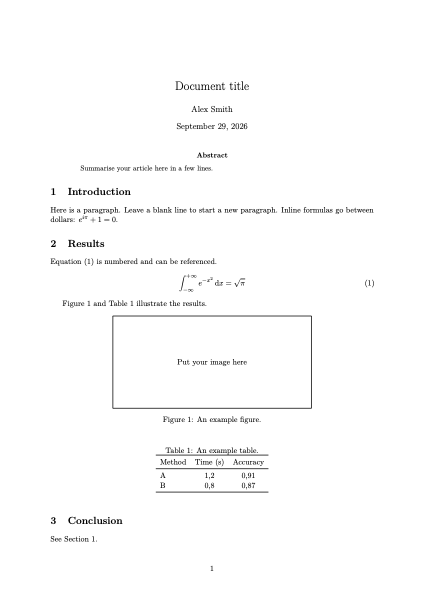
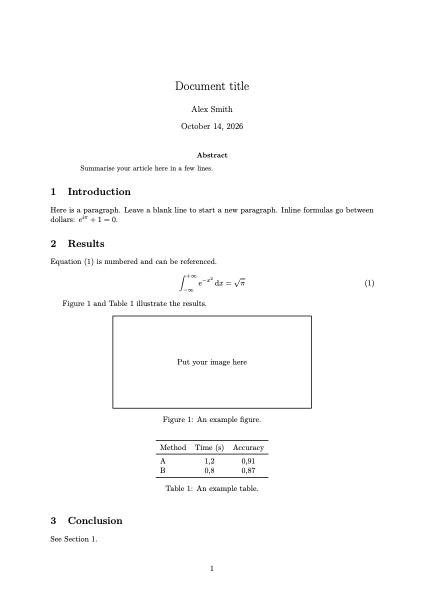
A mistake seen by several checks with a same fix is shown once; the @{ and @[ shortcuts work as they are typed (the bracket the editor closes no longer empties the list); tables have their caption under them

Changed region(s): [[0.3679, 0.72, 0.6439, 0.84], [0.4906, 0.18, 0.5825, 0.24], [0.4292, 0.21, 0.4599, 0.24]]

diff --git a/ui/lib/problems.test.ts b/ui/lib/problems.test.ts
@@ -1,0 +1,46 @@
+// One mistake seen by several checks is shown once.
+import assert from "node:assert/strict";
+import { test } from "node:test";
+import { oneEach } from "./problems.ts";
+import type { Diagnostic, Fix } from "./types";
+
+const at = (line: number, from: number, to: number) => ({ start: { line, character: from }, end: { line, character: to } });
+
+function problem(severity: Diagnostic["severity"], source: Diagnostic["source"], message: string, range: Diagnostic["range"], fixes: Fix[]): Diagnostic {
+  return { severity, source, code: null, message, file: "/p/main.tex", range, line: range ? range.start.line + 1 : null, endLine: null, contextBefore: null, contextAfter: null, raw: null, hint: null, fixes };
+}
+
+const replace = (word: string): Fix => ({ kind: "edits", title: `Remplacer par ${word}`, edits: [{ file: "/p/main.tex", range: at(2, 11, 15), text: word }] });
+
+test("a key mistyped, said by LaTeX, by Biber and by the live checks: once", () => {
+  const list = [
+    problem("warning", "latex", "Citation `knut' undefined", at(2, 11, 15), [replace("knuth")]),
+    problem("warning", "biber", "I didn't find a database entry for knut", at(2, 11, 15), [replace("knuth")]),
+    problem("warning", "lint", "Citation inconnue", at(2, 11, 15), [replace("knuth")]),
+  ];
+  assert.deepEqual(oneEach(list).map((d) => d.source), ["latex"]);
+});
+
+test("the most serious one stays, wherever it comes in the list", () => {
+  const close: Fix = { kind: "edits", title: "Fermer l'accolade", edits: [{ file: "/p/main.tex", range: at(2, 18, 18), text: "}" }] };
+  const list = [problem("warning", "syntax", "Accolade jamais fermée", at(2, 16, 17), [close]), problem("error", "latex", "File ended while scanning use of \\textbf", at(2, 9, 17), [close])];
+  assert.deepEqual(oneEach(list).map((d) => d.source), ["latex"]);
+});
+
+test("one fix for two places, or two fixes for one place: all stay", () => {
+  const siunitx: Fix = { kind: "addPackage", package: "siunitx" };
+  const two = [problem("error", "latex", "Undefined control sequence", at(2, 16, 19), [siunitx]), problem("error", "latex", "Undefined control sequence", at(2, 23, 29), [siunitx])];
+  assert.equal(oneEach(two).length, 2);
+  const different = [problem("error", "latex", "Undefined control sequence", at(2, 16, 19), [siunitx]), problem("info", "lint", "Style", at(2, 16, 19), [replace("x")])];
+  assert.equal(oneEach(different).length, 2);
+  // Without a fix, nothing tells they are the same mistake.
+  const bare = [problem("error", "latex", "A", at(2, 1, 4), []), problem("error", "latex", "A", at(2, 1, 4), [])];
+  assert.equal(oneEach(bare).length, 2);
+});
+
+test("a problem known by its line only meets the problems of that line", () => {
+  const fix: Fix = { kind: "addPackage", package: "amsmath" };
+  const line = { ...problem("error", "latex", "Environment align undefined", null, [fix]), line: 3 };
+  const list = [line, problem("info", "lint", "align nécessite amsmath", at(2, 0, 13), [fix]), problem("info", "lint", "ailleurs", at(7, 0, 4), [fix])];
+  assert.deepEqual(oneEach(list).map((d) => d.message), ["Environment align undefined", "ailleurs"]);
+});

diff --git a/ui/dev/selftest.ts b/ui/dev/selftest.ts
@@ -2090,19 +2090,37 @@ async function filesScenes(log: (msg: string) => void, dir: string): Promise<boo
     await editor.open(project.info!.main!);
     await pause(500);
 
-    // @[ typed: the editor closes the bracket; the shortcut replaces both.
+    // @[ and @{ typed as a person types them: the editor closes the
+    // bracket, the list opens by itself, the shortcut replaces both.
     const view = editor.view!;
-    view.dispatch({ changes: { from: 0, to: view.state.doc.length, insert: "$@[]$" }, selection: { anchor: 3 } });
     view.focus();
-    startCompletion(view);
-    await until(() => currentCompletions(view.state).some((c) => c.label === "@["), 5_000, "@[ completion");
-    const option = currentCompletions(view.state).findIndex((c) => c.label === "@[");
-    view.dispatch({ effects: setSelectedCompletion(option) });
-    // CodeMirror ignores an acceptance right after the list opens.
-    await pause(200);
-    acceptCompletion(view);
-    await pause(200);
-    check("@[ not doubled", view.state.doc.toString() === "$\\left[  \\right]$", view.state.doc.toString());
+    const typeKeys = (text: string) => {
+      for (const ch of text) {
+        const { from, to } = view.state.selection.main;
+        const handled = view.state.facet(EditorView.inputHandler).some((h) => h(view, from, to, ch, () => view.state.update({ changes: { from, to, insert: ch } })));
+        if (!handled) view.dispatch({ changes: { from, to, insert: ch }, selection: { anchor: from + ch.length }, userEvent: "input.type" });
+      }
+    };
+    for (const [key, written] of [
+      ["[", "$x = \\left[  \\right]$"],
+      ["{", "$x = \\left\\{  \\right\\}$"],
+    ] as const) {
+      view.dispatch({ changes: { from: 0, to: view.state.doc.length, insert: "$x = $" }, selection: { anchor: 5 } });
+      typeKeys("@");
+      await pause(150);
+      typeKeys(key);
+      const opened = await until(() => currentCompletions(view.state).some((c) => c.label === `@${key}`), 5_000, `@${key} completion`).then(
+        () => true,
+        () => false,
+      );
+      const option = currentCompletions(view.state).findIndex((c) => c.label === `@${key}`);
+      if (option >= 0) view.dispatch({ effects: setSelectedCompletion(option) });
+      // CodeMirror ignores an acceptance right after the list opens.
+      await pause(200);
+      acceptCompletion(view);
+      await pause(200);
+      check(`@${key} typed gives its brackets`, opened && view.state.doc.toString() === written, `${opened} ${view.state.doc.toString()}`);
+    }
     view.dispatch({ changes: { from: 0, to: view.state.doc.length, insert: "" } });
     const shown = (sel: string) => [...document.querySelectorAll<HTMLElement>(sel)].filter((e) => e.offsetWidth > 0).map((e) => e.textContent?.trim());
     const texts = shown(".format-bar .text-btn span");

diff --git a/ui/lib/problems.ts b/ui/lib/problems.ts
@@ -1,0 +1,46 @@
+// One mistake, one problem: a mistake is often seen by several checks
+// (the compiler, Biber, the live checks of the editor), each with the same
+// fix. A citation key mistyped is said by LaTeX and by Biber, a brace never
+// closed by the compiler and by the live syntax check. Shown once.
+
+import type { Diagnostic, Position, Range } from "./types";
+
+const RANK = { error: 0, warning: 1, info: 2, hint: 3 } as const;
+
+const before = (a: Position, b: Position) => a.line < b.line || (a.line === b.line && a.character < b.character);
+
+/** Where a problem is: its range, or its whole line(s) when only a line is known. */
+function placeOf(d: Diagnostic): Range | null {
+  if (d.range) return d.range;
+  if (!d.line) return null;
+  const end = d.endLine && d.endLine > d.line ? d.endLine : d.line;
+  return { start: { line: d.line - 1, character: 0 }, end: { line: end - 1, character: Number.MAX_SAFE_INTEGER } };
+}
+
+/** Whether two places share at least a point. */
+function meet(a: Range, b: Range): boolean {
+  return !before(a.end, b.start) && !before(b.end, a.start);
+}
+
+/**
+ * The problems of one file with the repeats left out: of the problems that
+ * are at the same place (their ranges meet) and offer a same fix, the most
+ * serious one stays (the first one given, between two of the same
+ * severity). Two mistakes that a same fix mends at two places (two
+ * commands of one package) both stay.
+ */
+export function oneEach(list: Diagnostic[]): Diagnostic[] {
+  const order = list.map((d, i) => ({ d, i })).sort((a, b) => RANK[a.d.severity] - RANK[b.d.severity] || a.i - b.i);
+  const kept: { d: Diagnostic; place: Range | null; fixes: Set<string> }[] = [];
+  for (const { d } of order) {
+    const place = placeOf(d);
+    const fixes = new Set(d.fixes.map((f) => JSON.stringify(f)));
+    const repeat =
+      !!place &&
+      fixes.size > 0 &&
+      kept.some((k) => k.place && meet(k.place, place) && [...fixes].some((f) => k.fixes.has(f)));
+    if (!repeat) kept.push({ d, place, fixes });
+  }
+  const keep = new Set(kept.map((k) => k.d));
+  return list.filter((d) => keep.has(d));
+}

diff --git a/ui/lib/editor/format.ts b/ui/lib/editor/format.ts
@@ -328,7 +328,7 @@ export function setList(view: EditorView, env: ListEnv, unit: string): boolean {
 
 /**
  * Snippet of a `rows × cols` table (booktabs rules, first row as header):
- * every cell is an empty field, then the caption.
+ * every cell is an empty field, then the caption, under the table.
  */
 export function tableSnippet(rows: number, cols: number): string {
   let field = 1;
@@ -340,14 +340,14 @@ export function tableSnippet(rows: number, cols: number): string {
   return [
     "\\begin{table}[htbp]",
     "\t\\centering",
-    `\t\\caption{${caption}}`,
-    `\t\\label{tab:\${${field++}}}`,
     `\t\\begin{tabular}{${"l".repeat(cols)}}`,
     "\t\t\\toprule",
     `\t\t${head}`,
     ...(body.length ? ["\t\t\\midrule", ...body.map((r) => `\t\t${r}`)] : []),
     "\t\t\\bottomrule",
     "\t\\end{tabular}",
+    `\t\\caption{${caption}}`,
+    `\t\\label{tab:\${${field++}}}`,
     "\\end{table}",
   ].join("\n");
 }

diff --git a/ui/lib/state/diagnostics.svelte.ts b/ui/lib/state/diagnostics.svelte.ts
@@ -1,6 +1,7 @@
 // Diagnostics from the linter (live, per file) and from the last build.
 
 import type { Diagnostic, Position, Range } from "../types";
+import { oneEach } from "../problems";
 import { comparablePath } from "../utils";
 
 /** Key of a file in maps and comparisons (see `comparablePath`). */
@@ -165,7 +166,8 @@ class DiagnosticsStore {
     const rank = { error: 0, warning: 1, info: 2, hint: 3 } as const;
     const out: { file: string | null; items: Diagnostic[] }[] = [];
     if (general.length) out.push({ file: null, items: general });
-    for (const [file, items] of [...groups.entries()].sort(([a], [b]) => a.localeCompare(b))) {
+    for (const [file, all] of [...groups.entries()].sort(([a], [b]) => a.localeCompare(b))) {
+      const items = oneEach(all);
       items.sort((a, b) => rank[a.severity] - rank[b.severity] || (a.line ?? 0) - (b.line ?? 0));
       out.push({ file, items });
     }

diff --git a/ui/lib/state/editor.svelte.ts b/ui/lib/state/editor.svelte.ts
@@ -54,6 +54,7 @@ import { figureAt, figureGroupAt } from "../images";
 import { listingAt } from "../listing";
 import { i18n, type MessageKey, t } from "../i18n.svelte";
 import * as ipc from "../ipc";
+import { oneEach } from "../problems";
 import { diskChange, remember, type Written } from "../disk";
 import { matchesKey, typingKey } from "../keys";
 import { addDefinition, addPackages, graphicsPaths, hasPackage, insertionPoint } from "../preamble";
@@ -739,7 +740,7 @@ class EditorStore {
     if (!m) return;
     const { lint, build } = diagnostics.forFile(m.path);
     const state = this.stateOf(m.path)!;
-    this.applyTo(m, setDiagnostics(state, toCmDiagnostics(state.doc, [...build, ...lint])));
+    this.applyTo(m, setDiagnostics(state, toCmDiagnostics(state.doc, oneEach([...build, ...lint]))));
   }
 
   private async refreshWords() {

diff --git a/ui/components/views/GridEditor.svelte b/ui/components/views/GridEditor.svelte
@@ -191,12 +191,13 @@
       let body = escapeSnippet(gridToLatex(out, "", "\t"));
       if (out.kind === "matrix" && !request.inMath) body = `\\[\n${indented(body)}\n\\]`;
       if (out.kind === "table" && float) {
+        // The caption under the table.
         body = [
           "\\begin{table}[htbp]",
           "\t\\centering",
+          indented(body),
           `\t\\caption{${field(1, caption.trim())}}`,
           `\t\\label{tab:${field(2, label.trim())}}`,
-          indented(body),
           "\\end{table}",
         ].join("\n");
       }

diff --git a/ui/lib/editor/typing.test.ts b/ui/lib/editor/typing.test.ts
@@ -99,5 +99,7 @@ test("tables have empty cells", () => {
   assert.match(s, /\\begin\{tabular\}\{lll\}/);
   assert.match(s, /\$\{1\} & \$\{2\} & \$\{3\} \\\\/);
   assert.match(s, /\\caption\{\$\{7\}\}/);
+  // The caption under the table.
+  assert.ok(s.indexOf("\\caption") > s.indexOf("\\end{tabular}"), s);
   assert.ok(!/\$\{\d+:/.test(s), "no default text");
 });

diff --git a/ui/lib/editor/completion.ts b/ui/lib/editor/completion.ts
@@ -27,7 +27,7 @@ const TYPE: Record<ItemKind, string> = {
 };
 
 /** What must precede the cursor for completion to open while typing. */
-const TRIGGER = /(?:\\[a-zA-Z@]*\*?|@[^\s\\@{}$]{0,12}|[{[,][^{}[\]\n,]*|%\s*!.*)$/;
+const TRIGGER = /(?:\\[a-zA-Z@]*\*?|@(?:\{|[^\s\\@{}$]{0,12})|[{[,][^{}[\]\n,]*|%\s*!.*)$/;
 
 interface Extra {
   glyph?: string;

diff --git a/crates/raytex-core/src/completion/mod.rs b/crates/raytex-core/src/completion/mod.rs
@@ -1328,7 +1328,11 @@ impl Completer<'_> {
                     item
                 }),
         );
-        CompletionList::new(&format!("@{partial}"), items).valid_for(r"^@[^\s\\@{}$]{0,12}$")
+        // A closing bracket is not part of a key: it is the one the editor
+        // added after `@[` or `@(`, and taken as typed it would leave
+        // nothing in the list (`@[]` matches no shortcut).
+        CompletionList::new(&format!("@{partial}"), items)
+            .valid_for(r"^@(?:\{|[^\s\\@{}$\])]{0,12})$")
     }
 
     fn words(&self, partial: &str, in_math: bool) -> CompletionList {
@@ -1915,6 +1919,41 @@ mod tests {
         let mut r = req(&main, "$ @", "", &off);
         r.macros = &macros;
         assert!(complete(&ws, &r).is_none());
+    }
+
+    #[test]
+    fn bracket_shortcuts_are_offered_as_they_are_typed() {
+        let (_d, ws, main) = ws();
+        let s = CompletionSettings::default();
+        for (typed, key) in [("$x = @[", "@["), ("$x = @{", "@{"), ("$x = @(", "@(")] {
+            let closing = &typed[typed.len() - 1..]
+                .replace('[', "]")
+                .replace('{', "}")
+                .replace('(', ")");
+            let list = complete(&ws, &req(&main, typed, &format!("{closing}$"), &s)).unwrap();
+            assert!(list.items.iter().any(|i| i.label == key), "{typed}");
+            // The list stays while a key is typed; the bracket the editor
+            // closed after it is not taken for a part of the key.
+            let valid = regex::Regex::new(list.valid_for.as_deref().unwrap()).unwrap();
+            assert!(valid.is_match(key), "{key}");
+            assert!(
+                !valid.is_match(&format!("{key}{closing}")),
+                "{key}{closing}"
+            );
+        }
+        assert!(valid_at("@ab"));
+        // Not in the columns of a table.
+        let list = complete(&ws, &req(&main, "\\begin{tabular}{@{", "}l}", &s));
+        assert!(list.is_none_or(|l| !l.items.iter().any(|i| i.label == "@{")));
+    }
+
+    fn valid_at(text: &str) -> bool {
+        let (_d, ws, main) = ws();
+        let s = CompletionSettings::default();
+        let list = complete(&ws, &req(&main, "$@a", "$", &s)).unwrap();
+        regex::Regex::new(list.valid_for.as_deref().unwrap())
+            .unwrap()
+            .is_match(text)
     }
 
     #[test]

diff --git a/crates/raytex-core/src/syntax/context.rs b/crates/raytex-core/src/syntax/context.rs
@@ -136,8 +136,11 @@ pub fn cursor_context(before: &str, after: &str) -> CursorContext {
     if let Some(at) = line.rfind('@') {
         let partial = &line[at + 1..];
         let prev = line[..at].chars().last();
+        // `@{` (`\left\{ … \right\}`): a brace, in a formula or after a
+        // space; not the `@{}` of the columns of a table.
+        let brace = partial == "{" && (in_math(before) || prev.is_none_or(char::is_whitespace));
         if partial.chars().count() <= AT_SHORTCUT_MAX
-            && !partial.contains(|c: char| c.is_whitespace() || "\\@{}$".contains(c))
+            && (brace || !partial.contains(|c: char| c.is_whitespace() || "\\@{}$".contains(c)))
             && prev.is_none_or(|c| !c.is_alphanumeric() && c != '\\')
         {
             return CursorContext::AtShortcut {
@@ -637,6 +640,27 @@ mod tests {
             cursor_context("$ @unmotbientroplongpourunraccourci", ""),
             CursorContext::AtShortcut { .. }
         ));
+        // `@{` and `@[`: a brace or a bracket in a formula (the editor has
+        // closed it after the cursor); not the `@{}` of a table.
+        for typed in ["$x = @{", "$x = @[", "Soit @{"] {
+            assert!(
+                matches!(
+                    cursor_context(typed, "}$"),
+                    CursorContext::AtShortcut { .. }
+                ),
+                "{typed}"
+            );
+        }
+        for typed in [
+            "\\begin{tabular}{@{",
+            "\\begin{tabular}{l@{",
+            "\\begin{tabular}{@{}l@{",
+        ] {
+            assert!(
+                !matches!(cursor_context(typed, "}"), CursorContext::AtShortcut { .. }),
+                "{typed}"
+            );
+        }
         assert_eq!(
             cursor_context("mail@ex", ""),
             CursorContext::Word {

diff --git a/crates/raytex-core/data/templates/article/main.tex b/crates/raytex-core/data/templates/article/main.tex
@@ -59,8 +59,6 @@
 
 \begin{table}[htbp]
   \centering
-  \caption{{{fr:Un tableau d'exemple.|en:An example table.}}}
-  \label{tab:exemple}
   \begin{tabular}{lcc}
     \toprule
     {{fr:Méthode|en:Method}} & {{fr:Temps (s)|en:Time (s)}} & {{fr:Précision|en:Accuracy}} \\
@@ -69,6 +67,8 @@
     B & 0{,}8 & 0{,}87 \\
     \bottomrule
   \end{tabular}
+  \caption{{{fr:Un tableau d'exemple.|en:An example table.}}}
+  \label{tab:exemple}
 \end{table}
 
 \section{Conclusion}
